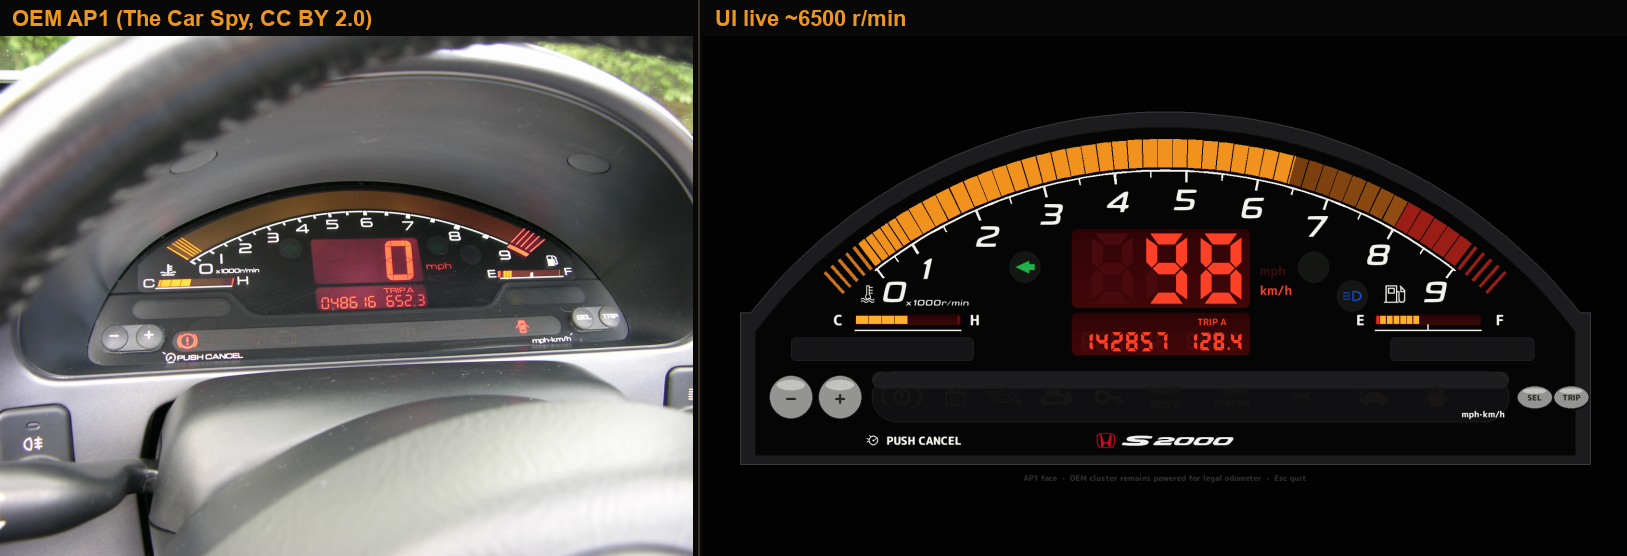
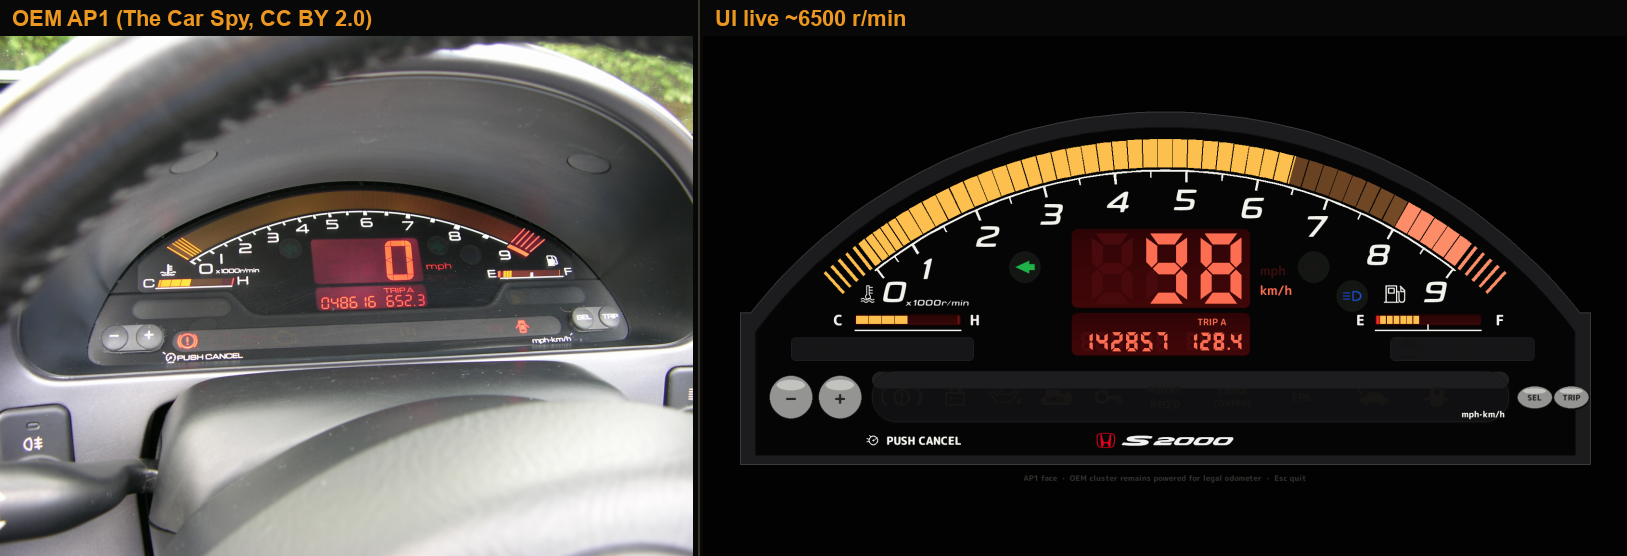
fix(cluster): match lit AP1 reference palette (colour) (#75)
Match photo chromaticity with independent region samples and reject the old LCD palette. Refresh hashes with the existing tolerance unchanged.

diff --git a/apps/harness/components/ClusterFace.tsx b/apps/harness/components/ClusterFace.tsx
@@ -46,18 +46,18 @@ const STRIP = "#121214";
 const STRIP_HI = "#2c2c30";
 const LCD = "#42090b";
 const LCD_OFF = "#160607";
-const AMBER = "#f49420";
+const AMBER = "#ffc14f";
 const AMBER_HOT = "#ffb03c";
-const BAND_UNLIT_END = "#ac5c18";
-const BAND_UNLIT_MID = "#6c380e";
-const HATCH_AMBER = "#d0761e";
-const HATCH_RED = "#9c2018";
-const HATCH_RED_LIT = "#ff3c28";
+const BAND_UNLIT_END = "#82532c";
+const BAND_UNLIT_MID = "#623f22";
+const HATCH_AMBER = "#ffbf4f";
+const HATCH_RED = "#ff8f6a";
+const HATCH_RED_LIT = "#ff8f6a";
 const RED = "#e42820";
-const RED_LCD = "#ff4228";
+const RED_LCD = "#ff6f53";
 const RED_LCD_GHOST = "#4a0c0e";
 const LABEL_OFF = "#3c0f0f";
-const SEG_YELLOW = "#ffb22e";
+const SEG_YELLOW = "#ffc14f";
 const SEG_RED = "#ee2c22";
 const SEG_GHOST = "#2a1408";
 const GAUGE_WINDOW = "#380a0a";

diff --git a/scripts/reference_colour.py b/scripts/reference_colour.py
@@ -1,0 +1,57 @@
+"""Reproducible photo/UI colour comparisons, without a panel-calibration claim."""
+from collections import Counter
+from pathlib import Path
+import statistics
+
+import pygame
+
+ROOT = Path(__file__).resolve().parents[1]
+REFERENCE = ROOT / "refs/oem/lit/lit_ap1_carspy_cluster.jpg"
+
+# Literal reference pixels and UI ROIs in the locked module coordinate space.
+# The photo is at idle; its lit hatch/side-bar amber is the available proxy
+# for lit tach amber. Normalize by the peak channel to separate exposure.
+SAMPLES = {
+    "lcd_red": ((888, 471, 954, 563), (.39, .35, .60, .568)),
+    "side_amber": ((364, 562, 442, 580), (.135, .586, .26, .616)),
+    "hatch_amber": ((385, 466, 465, 514), (.10, .34, .16, .50)),
+    "hatch_red": ((1170, 442, 1258, 503), (.84, .34, .91, .50)),
+}
+
+
+def selected(key, p, photo=False):
+    r, g, b = p[:3]
+    if key == "lcd_red":
+        return r > 200 and r > g * 2 and g > b * 1.2
+    if key in ("side_amber", "hatch_amber"):
+        return r > 180 and 90 < g < 225 and b < 150 and g > b * 1.5
+    return r > 160 and r > g * 1.5 and g > b * 1.1
+
+
+def pixels(image, box, key):
+    x0, y0, x1, y1 = box
+    return [tuple(image.get_at((x, y))[:3])
+            for y in range(round(y0), round(y1)) for x in range(round(x0), round(x1))
+            if selected(key, image.get_at((x, y)))]
+
+
+def chroma(rgb):
+    peak = max(rgb)
+    return tuple(c / peak for c in rgb)
+
+
+def measure(image, metadata):
+    reference = pygame.image.load(str(REFERENCE))
+    mx, my, mw, mh = metadata["ui_module"]
+    checks = []
+    for key, (ref_box, roi) in SAMPLES.items():
+        ref_pixels = pixels(reference, ref_box, key)
+        expected = tuple(statistics.median(p[c] for p in ref_pixels) for c in range(3))
+        x0, y0, x1, y1 = roi
+        ui_pixels = pixels(image, (mx + mw*x0, my + mh*y0, mx + mw*x1, my + mh*y1), key)
+        actual = Counter(ui_pixels).most_common(1)[0][0] if ui_pixels else None
+        delta = max(abs(a-b) for a,b in zip(chroma(actual), chroma(expected))) if actual else None
+        checks.append({"sample": key, "reference_rgb": expected, "ui_rgb": actual,
+                       "max_chroma_delta": delta, "tolerance": .08,
+                       "pass": delta is not None and delta <= .08})
+    return checks

diff --git a/tests/test_reference_colour.py b/tests/test_reference_colour.py
@@ -1,0 +1,36 @@
+import re
+from pathlib import Path
+
+import pygame
+
+import gauge_ui
+from scripts import reference_colour
+
+ROOT = Path(__file__).resolve().parents[1]
+
+
+def test_reference_palette_and_web_parity():
+    # Compare actual source pixels, not expected RGB constants copied from UI.
+    image = pygame.Surface((1920, 1080))
+    g = gauge_ui.build_face_geom()
+    gauge_ui._draw_band_unlit(pygame, image, g)
+    mx, my, mw, mh = g.module
+    for key, rgb, roi in [
+        ("lcd_red", gauge_ui.RED_LCD, (.39, .35, .60, .568)),
+        ("side_amber", gauge_ui.SEG_YELLOW, (.135, .586, .26, .616)),
+    ]:
+        x0,y0,x1,y1 = roi
+        pygame.draw.rect(image, rgb, (round(mx+mw*x0), round(my+mh*y0), round(mw*(x1-x0)), round(mh*(y1-y0))))
+    checks = reference_colour.measure(image, {"ui_module": g.module})
+    assert all(c["pass"] for c in checks), checks
+    web = (ROOT / "apps/harness/components/ClusterFace.tsx").read_text()
+    for name in ("AMBER", "BAND_UNLIT_END", "BAND_UNLIT_MID", "HATCH_AMBER", "HATCH_RED", "HATCH_RED_LIT", "RED_LCD", "SEG_YELLOW"):
+        value = re.search(rf'const {name} = "#([0-9a-f]{{6}})"', web)[1]
+        assert tuple(bytes.fromhex(value)) == getattr(gauge_ui, name)
+
+
+def test_old_saturated_red_is_rejected():
+    image = pygame.Surface((1000, 426))
+    pygame.draw.rect(image, (255, 66, 40), (390, 149, 210, 93))
+    checks = reference_colour.measure(image, {"ui_module": [0, 0, 1000, 426]})
+    assert not next(c for c in checks if c["sample"] == "lcd_red")["pass"]

diff --git a/src/gauge_ui.py b/src/gauge_ui.py
@@ -72,24 +72,24 @@ WELL = FACE_BLACK
 LCD = (66, 9, 11)              # red-backlit window glass
 LCD_EDGE = (36, 9, 9)
 LCD_OFF = (22, 6, 7)           # window with the backlight off (boot)
-AMBER = (244, 148, 32)         # lit bar-graph segment
+AMBER = (255, 193, 79)         # lit amber sampled from the AP1 photo
 AMBER_HOT = (255, 176, 60)
 AMBER_DIM = (110, 58, 14)
 AMBER_GHOST = (28, 18, 8)
-BAND_UNLIT_END = (172, 92, 24)  # unlit amber film — brighter toward the ends
-BAND_UNLIT_MID = (108, 56, 14)
+BAND_UNLIT_END = (130, 83, 44)  # unlit amber film — brighter toward the ends
+BAND_UNLIT_MID = (98, 63, 34)
 BAND_SEG_LINE = (92, 46, 12)
-HATCH_AMBER = (208, 118, 30)
+HATCH_AMBER = (255, 191, 79)
 HATCH_AMBER_LIT = (255, 180, 44)
-HATCH_RED = (156, 32, 24)
-HATCH_RED_LIT = (255, 60, 40)
+HATCH_RED = (255, 143, 106)
+HATCH_RED_LIT = (255, 143, 106)
 RED = (228, 40, 32)
 RED_DIM = (110, 22, 20)
-RED_LCD = (255, 66, 40)
+RED_LCD = (255, 111, 83)
 RED_LCD_GHOST = (74, 12, 14)
 LABEL_LIT = RED_LCD
 LABEL_OFF = (60, 15, 15)
-SEG_YELLOW = (255, 178, 46)    # TEMP / FUEL blocks
+SEG_YELLOW = (255, 193, 79)    # TEMP / FUEL blocks
 SEG_RED = (238, 44, 34)
 GAUGE_WINDOW = (56, 10, 10)
 GAUGE_EDGE = (30, 8, 8)
